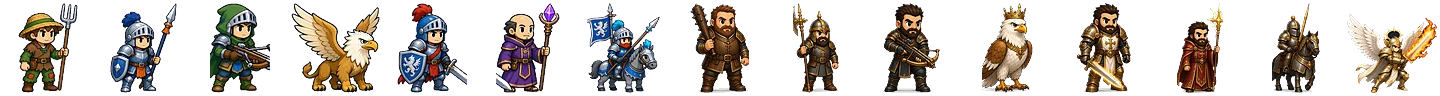
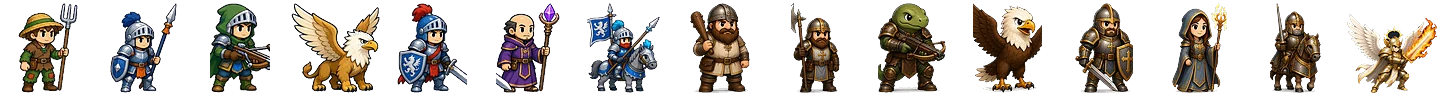
Mini Heroes 1.5.0: Broz fixes - chibi Castle upgrade sheet, respaced Stronghold upgrade sheet, standalone Bear Rider (scaled below the golem)

Changed region(s): [[0.4688, 0.0312, 0.9375, 0.9688]]

diff --git a/tools/miniheroes-art/build_atlas.py b/tools/miniheroes-art/build_atlas.py
@@ -156,7 +156,7 @@ BROZ = {  # faction: (sheet in src/broz, Broz column -> data tier order)
     'necro': (23, [0, 1, 2, 3, 4, 5, 6]), 'sylvan': (22, [0, 1, 2, 3, 4, 5, 6]), 'inferno': (20, [0, 1, 2, 3, 4, 5, 6]),
     'stronghold': (21, [0, 1, 2, 3, 4, 5, 6]), 'dwarf': (19, [0, 1, 2, 3, 4, 5, 6])}
 # replacement sheet (white bg, 4 figures with captions): (column -> faction, slot) where slot 0-6 = base tier, 7 = mythic
-FIX_SHEET, FIXES = 18, {0: ('dwarf', 4), 1: ('inferno', 7), 2: ('sylvan', 7), 3: ('stronghold', 7)}
+FIX_SHEET, FIXES = 18, {1: ('inferno', 7), 2: ('sylvan', 7), 3: ('stronghold', 7)}
 def fix_figs():
     im = Image.open(os.path.join(HERE, 'src', 'broz', str(FIX_SHEET) + '.jpg')).convert('RGB'); w, h = im.size
     im = im.crop((0, 0, w, int(h * 0.74))); rgba = cut_background(im); q = w // 4
@@ -216,7 +216,7 @@ def drop_edge_bits(im):  # remove neighbour fragments: alpha blobs touching the 
         if edge and n < big * 0.3:
             for x, y in pts: op[x, y] = (0, 0, 0, 0)
     return out
-UPSHEET = {'dwarf': 25, 'stronghold': 26, 'sylvan': 27, 'inferno': 28, 'castle': 29, 'necro': 30}  # Broz upgrade sheets: white bg, T1-T7 upgraded, captions below
+UPSHEET = {'dwarf': 25, 'stronghold': 33, 'sylvan': 27, 'inferno': 28, 'castle': 32, 'necro': 30}  # Broz upgrade sheets: white bg, T1-T7 upgraded, captions below
 def up_figs(fac, n=7):
     im = Image.open(os.path.join(HERE, 'src', 'broz', str(UPSHEET[fac]) + '.jpg')).convert('RGB'); w, h = im.size; px = im.load()
     rows = [sum(1 for x in range(0, w, 2) if max(px[x, y]) < 110) for y in range(h)]
@@ -262,11 +262,15 @@ def main():
         rows = []
         if fac in BROZ:
             sh, order = BROZ[fac]; bf = broz_figs(sh)
+            if fac == 'dwarf':  # Broz's standalone Bear Rider (white bg, caption below), kept smaller than the T6 golem
+                im = Image.open(os.path.join(HERE, 'src', 'broz', '31.jpg')).convert('RGB'); br = clean(cut_background(im.crop((0, 0, im.width, int(im.height * 0.74)))))
+                hh = round(bf[order[5]].height * 0.8); bf[order[4]] = br.resize((max(1, round(br.width * hh / br.height)), hh), Image.LANCZOS)
             for c, (ff, slot) in FIXES.items():
                 if ff == fac:
                     j = order[slot] if slot < 7 else 7; old = bf[j]; nf = FIXF[c]; k = old.height / nf.height  # match the replaced figure's size on the sheet
                     bf[j] = nf.resize((max(1, round(nf.width * k)), old.height), Image.LANCZOS)
             bs = scale_row([bf[order[i]] for i in range(7)] + [bf[7]])
+            if fac == 'dwarf': bs[4] = bs[4].resize((round(bs[4].width * 0.78), round(bs[4].height * 0.78)), Image.LANCZOS)  # Bear Rider reads smaller than the Iron/Steam Golem
             rows = list(zip(base, bs[:7])) + list(zip(up, match_h(up_figs(fac), bs[:7])))
             myth[fac] = bs[7]
         for key, names in (() if fac in BROZ else ((fac + '-base', base), (fac + '-up', up))):
